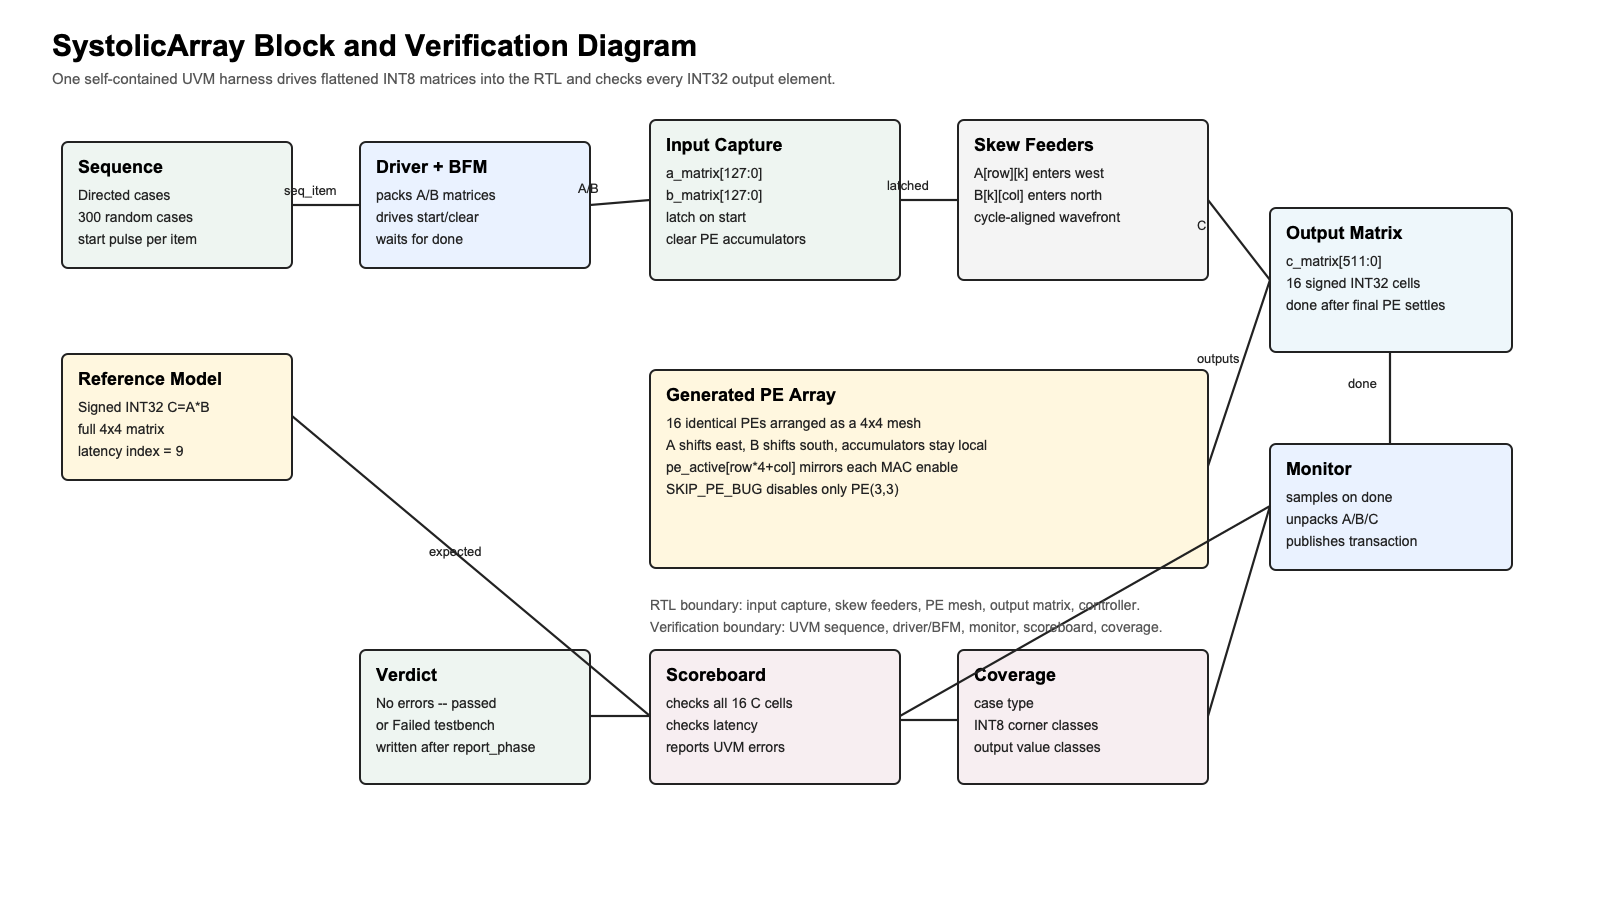
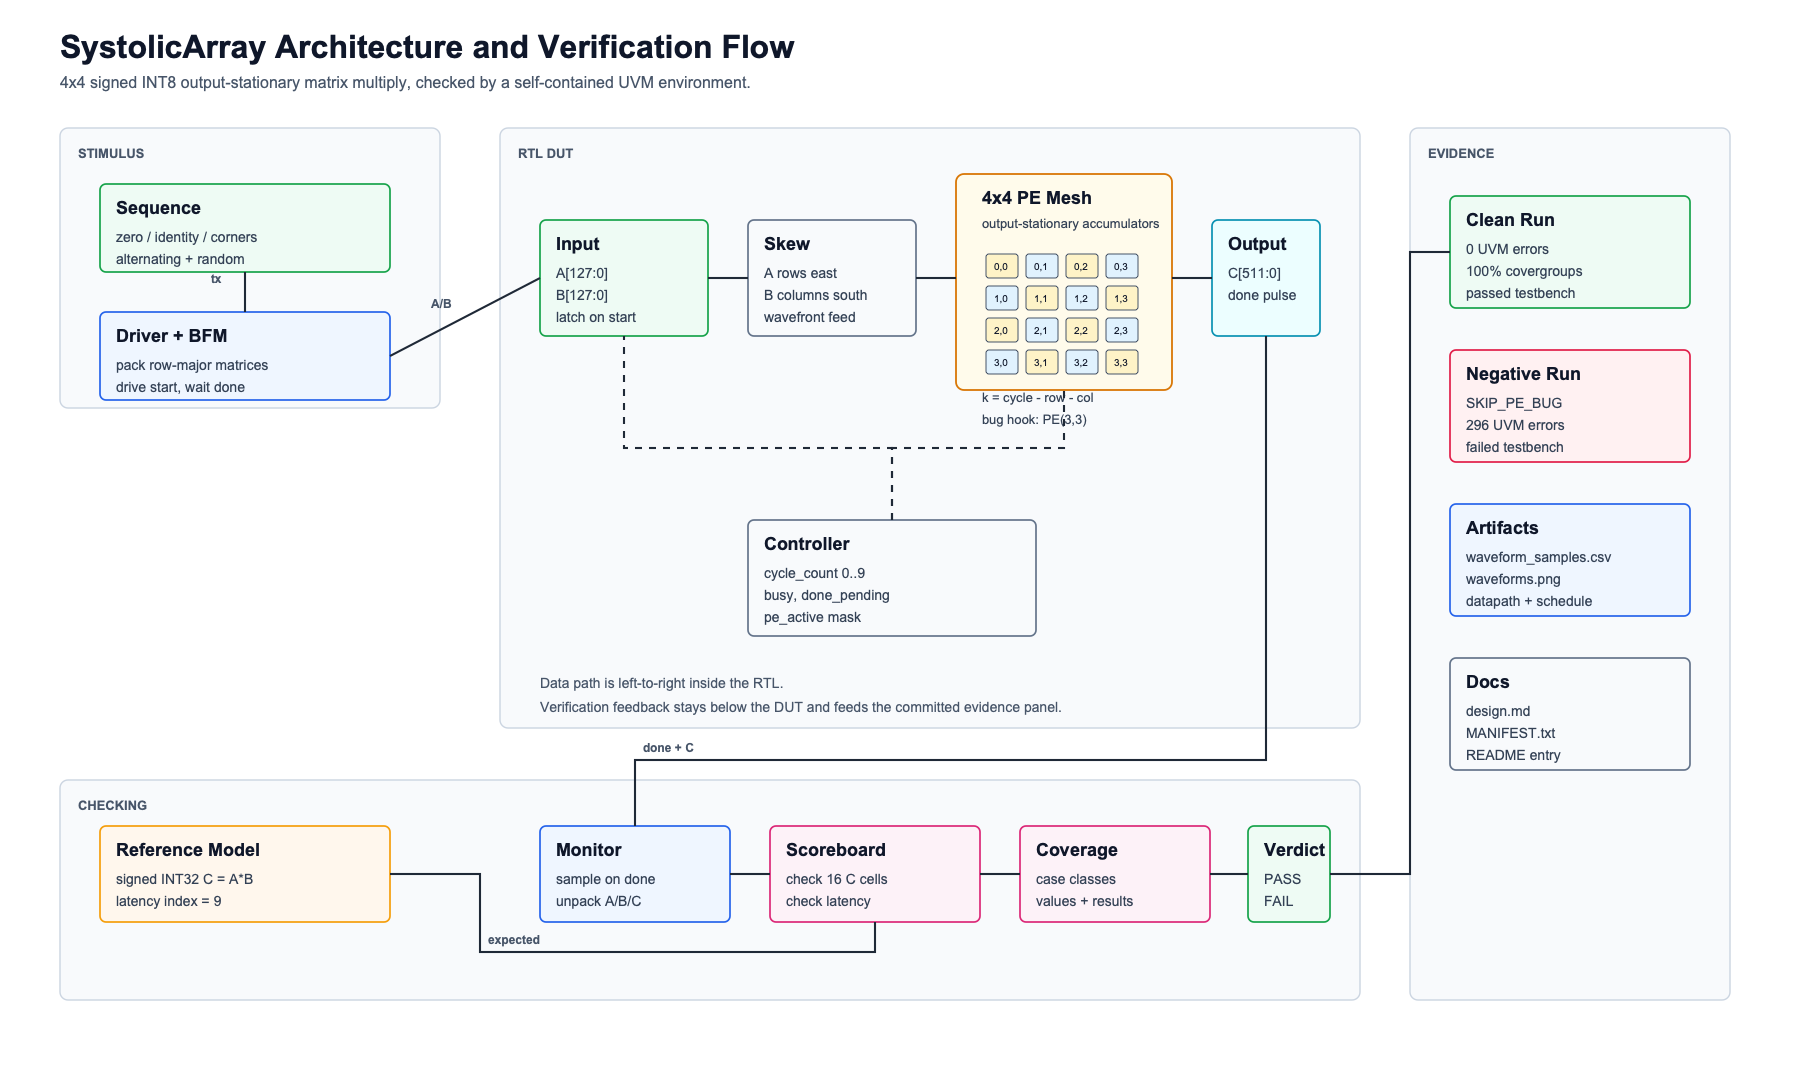
docs: polish SystolicArray block diagram

diff --git a/SystolicArray/make_artifacts.py b/SystolicArray/make_artifacts.py
@@ -317,53 +317,93 @@ def render_datapath(path: Path) -> None:
 
 
 def render_block_diagram(path: Path) -> None:
-    width = 1600
-    height = 900
+    width = 1800
+    height = 1080
     parts = [
         f'<svg xmlns="http://www.w3.org/2000/svg" width="{width}" height="{height}" viewBox="0 0 {width} {height}">',
         f'<rect x="0" y="0" width="{width}" height="{height}" fill="#ffffff"/>',
-        '<defs><marker id="arrow" markerWidth="10" markerHeight="8" refX="9" refY="4" orient="auto"><path d="M0,0 L10,4 L0,8 Z" fill="#222"/></marker></defs>',
-        '<text x="52" y="56" font-family="Arial, sans-serif" font-size="30" font-weight="700">SystolicArray Block and Verification Diagram</text>',
-        '<text x="52" y="84" font-family="Arial, sans-serif" font-size="15" fill="#555">One self-contained UVM harness drives flattened INT8 matrices into the RTL and checks every INT32 output element.</text>',
+        '<defs><marker id="arrow" markerWidth="10" markerHeight="8" refX="9" refY="4" orient="auto"><path d="M0,0 L10,4 L0,8 Z" fill="#1f2937"/></marker></defs>',
+        '<text x="60" y="58" font-family="Arial, sans-serif" font-size="32" font-weight="700" fill="#0f172a">SystolicArray Architecture and Verification Flow</text>',
+        '<text x="60" y="88" font-family="Arial, sans-serif" font-size="16" fill="#475569">4x4 signed INT8 output-stationary matrix multiply, checked by a self-contained UVM environment.</text>',
     ]
 
-    def box(x: int, y: int, w: int, h: int, title: str, body: str, fill: str) -> None:
-        parts.append(f'<rect x="{x}" y="{y}" width="{w}" height="{h}" rx="6" fill="{fill}" stroke="#222" stroke-width="2"/>')
-        parts.append(f'<text x="{x + 16}" y="{y + 31}" font-family="Arial, sans-serif" font-size="18" font-weight="700">{html.escape(title)}</text>')
+    def group(x: int, y: int, w: int, h: int, title: str) -> None:
+        parts.append(f'<rect x="{x}" y="{y}" width="{w}" height="{h}" rx="8" fill="#f8fafc" stroke="#cbd5e1" stroke-width="1.4"/>')
+        parts.append(f'<text x="{x + 18}" y="{y + 30}" font-family="Arial, sans-serif" font-size="13" font-weight="700" fill="#475569">{html.escape(title.upper())}</text>')
+
+    def box(x: int, y: int, w: int, h: int, title: str, body: str, fill: str = "#ffffff", stroke: str = "#334155") -> None:
+        parts.append(f'<rect x="{x}" y="{y}" width="{w}" height="{h}" rx="6" fill="{fill}" stroke="{stroke}" stroke-width="1.7"/>')
+        parts.append(f'<text x="{x + 16}" y="{y + 30}" font-family="Arial, sans-serif" font-size="18" font-weight="700" fill="#0f172a">{html.escape(title)}</text>')
         for line_index, line in enumerate(body.split("\\n")):
-            parts.append(f'<text x="{x + 16}" y="{y + 58 + line_index * 22}" font-family="Arial, sans-serif" font-size="14" fill="#222">{html.escape(line)}</text>')
+            parts.append(f'<text x="{x + 16}" y="{y + 58 + line_index * 22}" font-family="Arial, sans-serif" font-size="14" fill="#334155">{html.escape(line)}</text>')
 
-    def arrow(x1: int, y1: int, x2: int, y2: int, label: str = "") -> None:
-        parts.append(f'<line x1="{x1}" y1="{y1}" x2="{x2}" y2="{y2}" stroke="#222" stroke-width="2.2" marker-end="url(#arrow)"/>')
+    def arrow(x1: int, y1: int, x2: int, y2: int, label: str = "", dashed: bool = False) -> None:
+        dash = ' stroke-dasharray="7 7"' if dashed else ""
+        parts.append(f'<line x1="{x1}" y1="{y1}" x2="{x2}" y2="{y2}" stroke="#1f2937" stroke-width="2.1"{dash} marker-end="url(#arrow)"/>')
         if label:
-            parts.append(f'<text x="{(x1 + x2) / 2 - 42:.1f}" y="{(y1 + y2) / 2 - 10:.1f}" font-family="Arial, sans-serif" font-size="13" fill="#222">{html.escape(label)}</text>')
+            parts.append(f'<text x="{(x1 + x2) / 2 - 34:.1f}" y="{(y1 + y2) / 2 - 9:.1f}" font-family="Arial, sans-serif" font-size="12" font-weight="700" fill="#475569">{html.escape(label)}</text>')
 
-    box(62, 142, 230, 126, "Sequence", "Directed cases\\n300 random cases\\nstart pulse per item", "#eef5f1")
-    box(62, 354, 230, 126, "Reference Model", "Signed INT32 C=A*B\\nfull 4x4 matrix\\nlatency index = 9", "#fff7df")
-    box(360, 142, 230, 126, "Driver + BFM", "packs A/B matrices\\ndrives start/clear\\nwaits for done", "#eaf2ff")
-    box(650, 120, 250, 160, "Input Capture", "a_matrix[127:0]\\nb_matrix[127:0]\\nlatch on start\\nclear PE accumulators", "#eef5f1")
-    box(958, 120, 250, 160, "Skew Feeders", "A[row][k] enters west\\nB[k][col] enters north\\ncycle-aligned wavefront", "#f4f4f4")
-    box(650, 370, 558, 198, "Generated PE Array", "16 identical PEs arranged as a 4x4 mesh\\nA shifts east, B shifts south, accumulators stay local\\npe_active[row*4+col] mirrors each MAC enable\\nSKIP_PE_BUG disables only PE(3,3)", "#fff7df")
-    box(1270, 208, 242, 144, "Output Matrix", "c_matrix[511:0]\\n16 signed INT32 cells\\ndone after final PE settles", "#eef7fb")
-    box(1270, 444, 242, 126, "Monitor", "samples on done\\nunpacks A/B/C\\npublishes transaction", "#eaf2ff")
-    box(958, 650, 250, 134, "Coverage", "case type\\nINT8 corner classes\\noutput value classes", "#f7eef1")
-    box(650, 650, 250, 134, "Scoreboard", "checks all 16 C cells\\nchecks latency\\nreports UVM errors", "#f7eef1")
-    box(360, 650, 230, 134, "Verdict", "No errors -- passed\\nor Failed testbench\\nwritten after report_phase", "#eef5f1")
+    def path_arrow(points: list[tuple[int, int]], label: str = "", dashed: bool = False) -> None:
+        dash = ' stroke-dasharray="7 7"' if dashed else ""
+        point_text = " ".join(f"{x},{y}" for x, y in points)
+        parts.append(f'<polyline points="{point_text}" fill="none" stroke="#1f2937" stroke-width="2.1"{dash} marker-end="url(#arrow)"/>')
+        if label:
+            x, y = points[len(points) // 2]
+            parts.append(f'<text x="{x + 8}" y="{y - 8}" font-family="Arial, sans-serif" font-size="12" font-weight="700" fill="#475569">{html.escape(label)}</text>')
 
-    arrow(292, 205, 360, 205, "seq_item")
-    arrow(590, 205, 650, 200, "A/B")
-    arrow(900, 200, 958, 200, "latched")
-    arrow(1208, 200, 1270, 280, "C")
-    arrow(1390, 352, 1390, 444, "done")
-    arrow(1270, 506, 1208, 716)
-    arrow(1270, 506, 900, 716)
-    arrow(650, 716, 590, 716)
-    arrow(292, 416, 650, 716, "expected")
-    arrow(1208, 466, 1270, 280, "outputs")
-    arrow(958, 720, 900, 720)
+    group(60, 128, 380, 280, "Stimulus")
+    group(500, 128, 860, 600, "RTL DUT")
+    group(60, 780, 1300, 220, "Checking")
+    group(1410, 128, 320, 872, "Evidence")
 
-    parts.append('<text x="650" y="610" font-family="Arial, sans-serif" font-size="14" fill="#555">RTL boundary: input capture, skew feeders, PE mesh, output matrix, controller.</text>')
-    parts.append('<text x="650" y="632" font-family="Arial, sans-serif" font-size="14" fill="#555">Verification boundary: UVM sequence, driver/BFM, monitor, scoreboard, coverage.</text>')
+    box(100, 184, 290, 88, "Sequence", "zero / identity / corners\\nalternating + random", "#eefbf4", "#16a34a")
+    box(100, 312, 290, 88, "Driver + BFM", "pack row-major matrices\\ndrive start, wait done", "#eff6ff", "#2563eb")
+    box(100, 826, 290, 96, "Reference Model", "signed INT32 C = A*B\\nlatency index = 9", "#fff7ed", "#f59e0b")
+
+    box(540, 220, 168, 116, "Input", "A[127:0]\\nB[127:0]\\nlatch on start", "#eefbf4", "#16a34a")
+    box(748, 220, 168, 116, "Skew", "A rows east\\nB columns south\\nwavefront feed", "#f8fafc", "#64748b")
+    box(1212, 220, 108, 116, "Output", "C[511:0]\\ndone pulse", "#ecfeff", "#0891b2")
+    box(748, 520, 288, 116, "Controller", "cycle_count 0..9\\nbusy, done_pending\\npe_active mask", "#f8fafc", "#64748b")
+
+    parts.append('<rect x="956" y="174" width="216" height="216" rx="8" fill="#fffbeb" stroke="#d97706" stroke-width="1.8"/>')
+    parts.append('<text x="982" y="204" font-family="Arial, sans-serif" font-size="18" font-weight="700" fill="#0f172a">4x4 PE Mesh</text>')
+    parts.append('<text x="982" y="228" font-family="Arial, sans-serif" font-size="13" fill="#334155">output-stationary accumulators</text>')
+    for row in range(4):
+        for col in range(4):
+            x = 986 + col * 40
+            y = 254 + row * 32
+            fill = "#fef3c7" if (row + col) % 2 == 0 else "#e0f2fe"
+            parts.append(f'<rect x="{x}" y="{y}" width="32" height="24" rx="3" fill="{fill}" stroke="#475569" stroke-width="1"/>')
+            parts.append(f'<text x="{x + 8}" y="{y + 16}" font-family="Arial, sans-serif" font-size="10" fill="#0f172a">{row},{col}</text>')
+    parts.append('<text x="982" y="402" font-family="Arial, sans-serif" font-size="13" fill="#334155">k = cycle - row - col</text>')
+    parts.append('<text x="982" y="424" font-family="Arial, sans-serif" font-size="13" fill="#334155">bug hook: PE(3,3)</text>')
+
+    box(540, 826, 190, 96, "Monitor", "sample on done\\nunpack A/B/C", "#eff6ff", "#2563eb")
+    box(770, 826, 210, 96, "Scoreboard", "check 16 C cells\\ncheck latency", "#fdf2f8", "#db2777")
+    box(1020, 826, 190, 96, "Coverage", "case classes\\nvalues + results", "#fdf2f8", "#db2777")
+    box(1248, 826, 82, 96, "Verdict", "PASS\\nFAIL", "#eefbf4", "#16a34a")
+
+    box(1450, 196, 240, 112, "Clean Run", "0 UVM errors\\n100% covergroups\\npassed testbench", "#eefbf4", "#16a34a")
+    box(1450, 350, 240, 112, "Negative Run", "SKIP_PE_BUG\\n296 UVM errors\\nfailed testbench", "#fff1f2", "#e11d48")
+    box(1450, 504, 240, 112, "Artifacts", "waveform_samples.csv\\nwaveforms.png\\ndatapath + schedule", "#eff6ff", "#2563eb")
+    box(1450, 658, 240, 112, "Docs", "design.md\\nMANIFEST.txt\\nREADME entry", "#f8fafc", "#64748b")
+
+    arrow(245, 272, 245, 312, "tx")
+    arrow(390, 356, 540, 278, "A/B")
+    arrow(708, 278, 748, 278)
+    arrow(916, 278, 956, 278)
+    arrow(1172, 278, 1212, 278)
+    path_arrow([(1266, 336), (1266, 760), (635, 760), (635, 826)], "done + C")
+    arrow(730, 874, 770, 874)
+    arrow(980, 874, 1020, 874)
+    arrow(1210, 874, 1248, 874)
+    path_arrow([(390, 874), (480, 874), (480, 952), (875, 952), (875, 922)], "expected")
+    path_arrow([(892, 520), (892, 448), (1064, 448), (1064, 390)], "", dashed=True)
+    path_arrow([(892, 520), (892, 448), (624, 448), (624, 336)], "", dashed=True)
+    path_arrow([(1330, 874), (1410, 874), (1410, 252), (1450, 252)])
+
+    parts.append('<text x="540" y="688" font-family="Arial, sans-serif" font-size="14" fill="#475569">Data path is left-to-right inside the RTL.</text>')
+    parts.append('<text x="540" y="712" font-family="Arial, sans-serif" font-size="14" fill="#475569">Verification feedback stays below the DUT and feeds the committed evidence panel.</text>')
     parts.append("</svg>")
     path.write_text("\n".join(parts))
 
